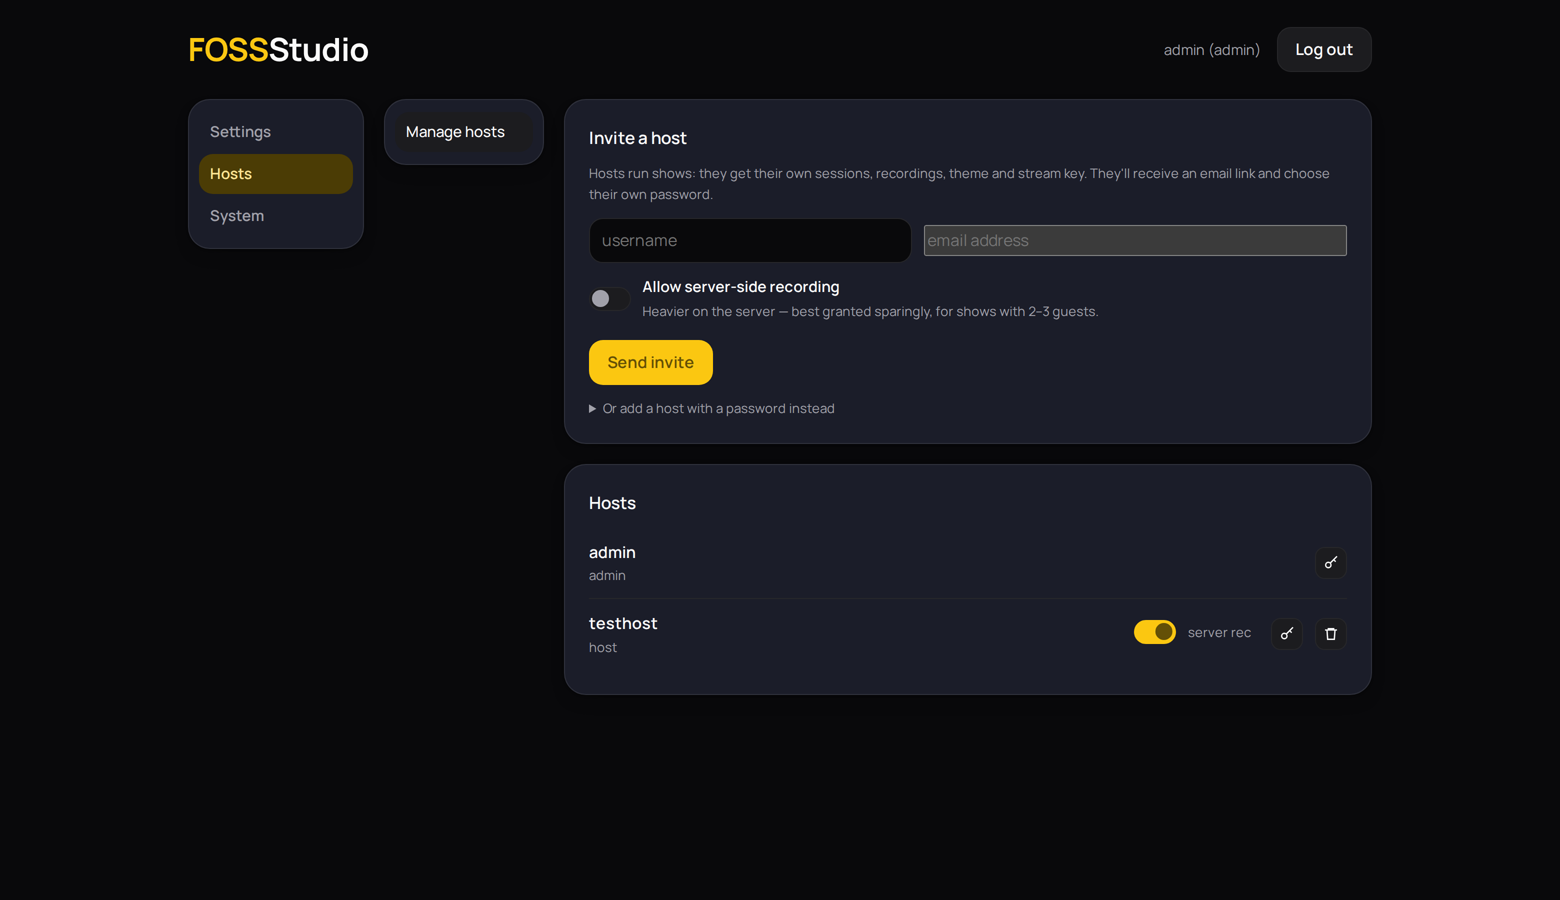
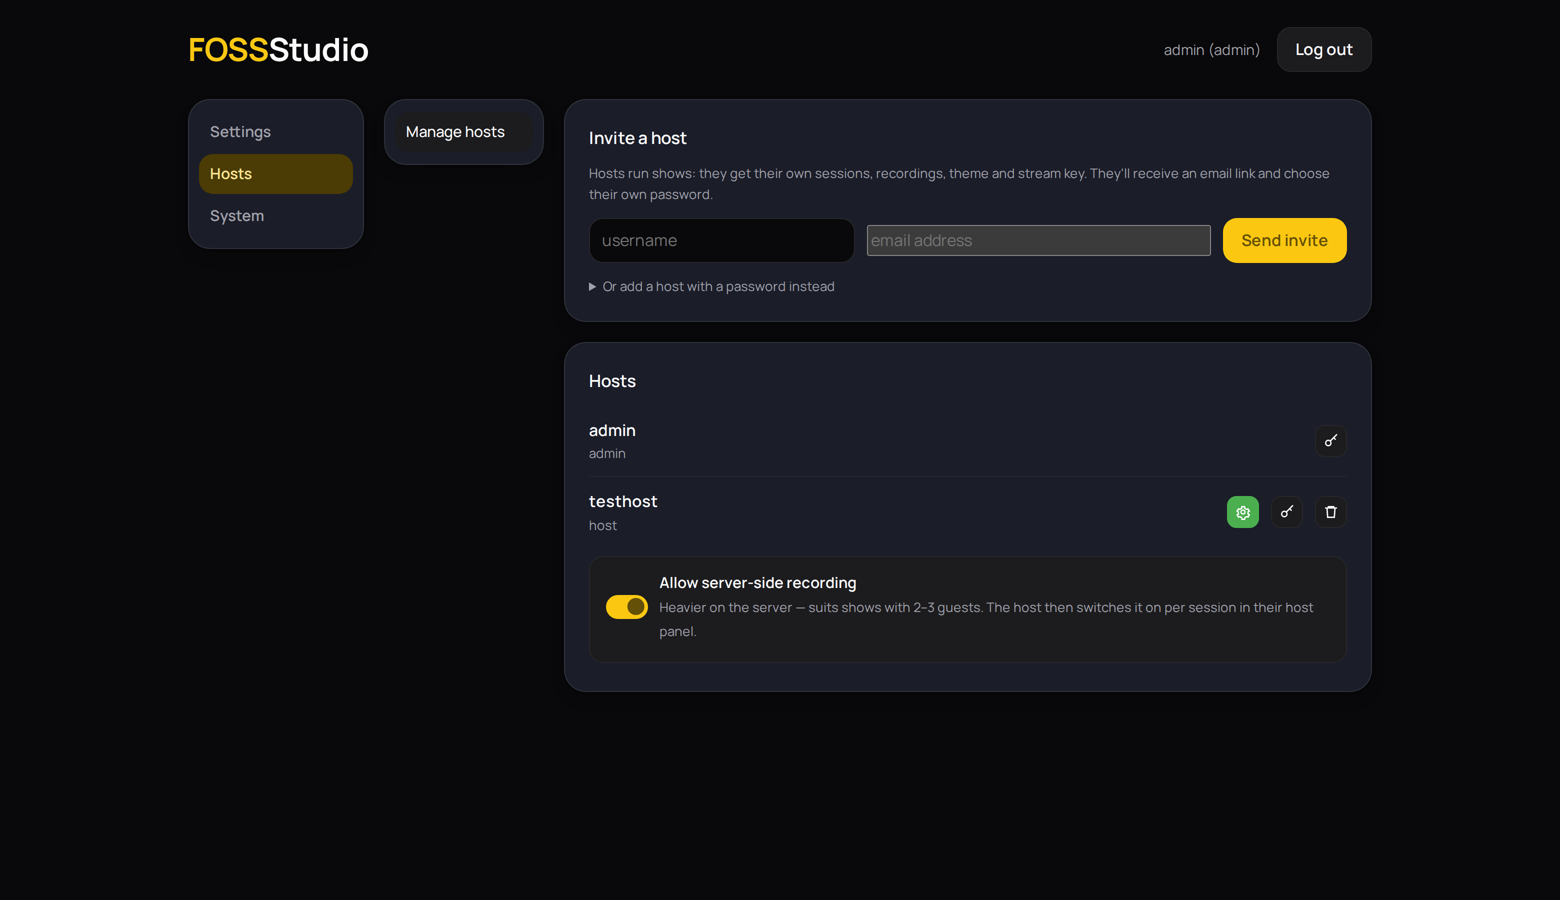
Per-host settings drawer in Hosts panel; invite form simplified
Server-side recording permission moved into each host's own settings
drawer (gear icon); refreshed hosts screenshot on the website.

Changed region(s): [[0.3385, 0.3111, 0.8923, 0.7778], [0.7692, 0.2178, 0.8615, 0.3111], [0.5231, 0.2178, 0.6462, 0.3111]]

diff --git a/web/host/host.js b/web/host/host.js
@@ -91,6 +91,7 @@
     open: '<svg viewBox="0 0 24 24" fill="none" stroke="currentColor" stroke-width="2"><path d="M15 3h6v6M21 3l-9 9M9 21H5a2 2 0 0 1-2-2V7"/></svg>',
     del: '<svg viewBox="0 0 24 24" fill="none" stroke="currentColor" stroke-width="2"><path d="M3 6h18M8 6V4h8v2M6 6l1 14h10l1-14"/></svg>',
     key: '<svg viewBox="0 0 24 24" fill="none" stroke="currentColor" stroke-width="2"><circle cx="8" cy="15" r="4"/><path d="M11 12L21 2M16 7l3 3"/></svg>',
+    gear: '<svg viewBox="0 0 24 24" fill="none" stroke="currentColor" stroke-width="2"><circle cx="12" cy="12" r="3"/><path d="M19.4 15a7.97 7.97 0 0 0 .1-3l2-1.2-2-3.4-2.2.7a8 8 0 0 0-2.6-1.5L14.3 4h-4l-.4 2.6a8 8 0 0 0-2.6 1.5l-2.2-.7-2 3.4 2 1.2a7.97 7.97 0 0 0 .1 3l-2 1.2 2 3.4 2.2-.7a8 8 0 0 0 2.6 1.5l.4 2.6h4l.4-2.6a8 8 0 0 0 2.6-1.5l2.2.7 2-3.4z"/></svg>',
     tick: '<svg viewBox="0 0 24 24" fill="none" stroke="currentColor" stroke-width="2.5"><path d="M4 12l5 5L20 7"/></svg>'
   };
 
@@ -192,19 +193,29 @@
         <span class="spacer"></span>`;
       row.querySelector(".title").textContent = u.username;
       if (u.role !== "admin") {
-        const perm = document.createElement("label");
-        perm.className = "toggle";
-        perm.style.marginRight = "0.5rem";
-        perm.title = "Allow server-side recording";
-        perm.innerHTML = `<input type="checkbox" ${u.allowServerRecording ? "checked" : ""}>
-          <span class="track"></span><span class="hint">server rec</span>`;
-        perm.querySelector("input").onchange = async (e) => {
+        // Each host gets its own settings drawer
+        const drawer = document.createElement("div");
+        drawer.className = "host-settings";
+        drawer.hidden = true;
+        drawer.innerHTML = `
+          <label class="toggle">
+            <input type="checkbox" ${u.allowServerRecording ? "checked" : ""}>
+            <span class="track"></span>
+            <span>Allow server-side recording<br>
+              <span class="hint">Heavier on the server — suits shows with 2–3 guests. The host then switches it on per session in their host panel.</span></span>
+          </label>`;
+        drawer.querySelector("input").onchange = async (e) => {
           await apiFetch(`/api/users/${u.id}/permissions`, {
             method: "POST",
             body: JSON.stringify({ allowServerRecording: e.target.checked })
           }).catch((err) => showUserMsg(err.message));
         };
-        row.appendChild(perm);
+        const gear = iconBtn("gear", `Settings for ${u.username}`, () => {
+          drawer.hidden = !drawer.hidden;
+          gear.classList.toggle("done", !drawer.hidden);
+        });
+        row.appendChild(gear);
+        row.settingsDrawer = drawer;
       }
       const reset = iconBtn("key", "Set a new password for this user", async () => {
         const pw = prompt(`New password for ${u.username} (10+ characters):`);
@@ -228,6 +239,7 @@
         }));
       }
       list.appendChild(row);
+      if (row.settingsDrawer) list.appendChild(row.settingsDrawer);
     }
   }
 
@@ -246,13 +258,11 @@
         method: "POST",
         body: JSON.stringify({
           username: $("newUserName").value,
-          email: $("newUserEmail").value,
-          allowServerRecording: $("newUserServerRec").checked
+          email: $("newUserEmail").value
         })
       });
       $("newUserName").value = "";
       $("newUserEmail").value = "";
-      $("newUserServerRec").checked = false;
       if (r.emailed) {
         showUserMsg("✓ Invite emailed — they have 7 days to accept.", true);
       } else {

diff --git a/web/host/index.html b/web/host/index.html
@@ -153,11 +153,6 @@
           <form id="newUserForm" style="display:flex; gap:0.75rem; flex-wrap:wrap; align-items:center">
             <input type="text" id="newUserName" placeholder="username" autocomplete="off" style="flex:1; min-width:8rem">
             <input type="email" id="newUserEmail" placeholder="email address" autocomplete="off" style="flex:1.4; min-width:12rem">
-            <label class="toggle" style="flex-basis:100%">
-              <input type="checkbox" id="newUserServerRec">
-              <span class="track"></span>
-              <span>Allow server-side recording<br><span class="hint">Heavier on the server — best granted sparingly, for shows with 2–3 guests.</span></span>
-            </label>
             <button class="btn primary" type="submit">Send invite</button>
           </form>
           <p class="msg" id="userMsg" hidden></p>

diff --git a/web/host/host.css b/web/host/host.css
@@ -271,6 +271,19 @@ input[type="text"], input[type="password"], input[type="number"] {
 .toggle input:checked + .track::after { transform: translateX(1.15rem); background: var(--on-accent); }
 .toggle input:focus-visible + .track { outline: 2px solid var(--accent); outline-offset: 2px; }
 
+/* ---------- Per-host settings drawer ---------- */
+
+.host-settings {
+  grid-column: 1 / -1;
+  flex-basis: 100%;
+  margin: 0.5rem 0 0.25rem;
+  padding: 0.9rem 1rem;
+  background: var(--muted);
+  border: 1px solid var(--border);
+  border-radius: var(--radius);
+}
+.host-settings .toggle + .toggle { margin-top: 0.7rem; }
+
 /* ---------- Feedback ---------- */
 
 .msg { border-radius: var(--radius); padding: 0.6rem 0.9rem; font-size: 0.9rem; margin-top: 0.75rem; }
